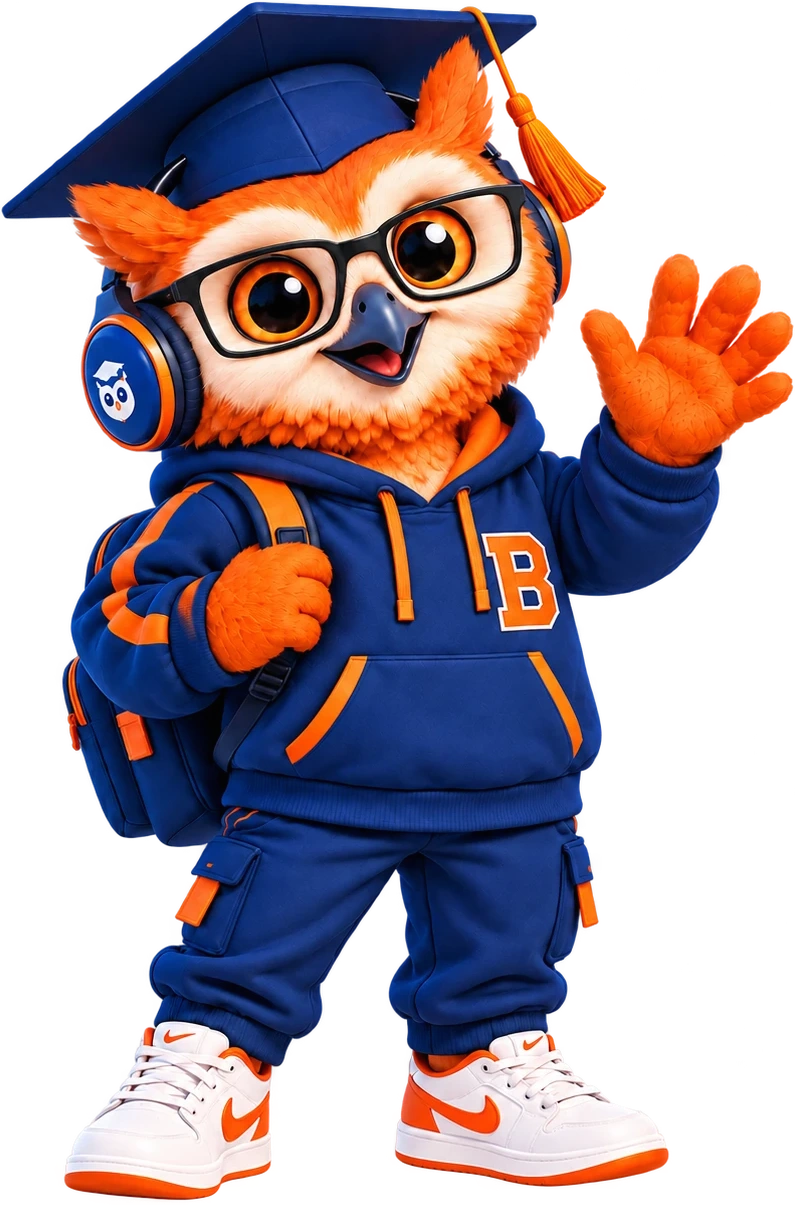
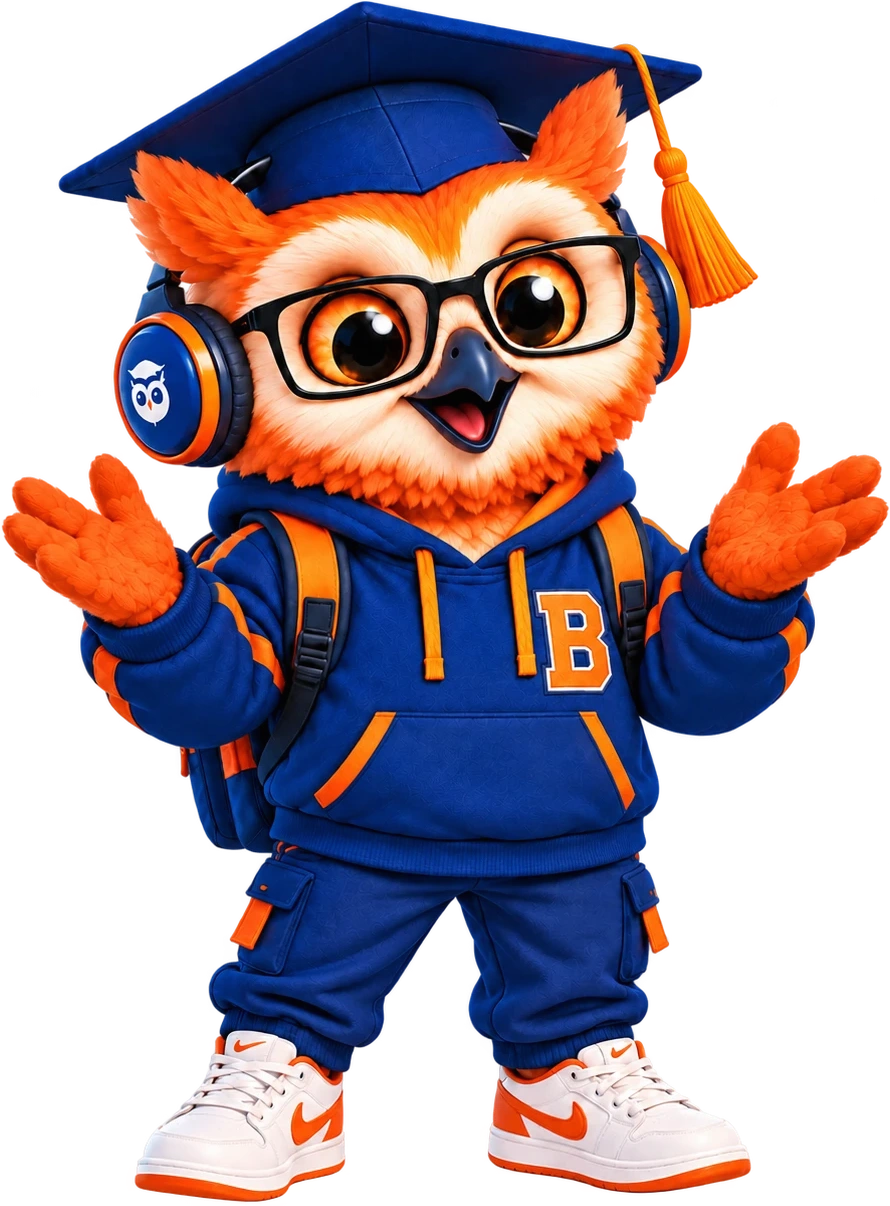
Troca a arte do "Agora é a sua vez"
Bubo de braços abertos no lugar do que acenava. Veio com transparência, então
entrou sem recorte; só as dimensões mudaram, porque a pose é mais larga.

diff --git a/src/components/quiz/story-player.tsx b/src/components/quiz/story-player.tsx
@@ -307,8 +307,8 @@ export function StoryPlayer({ story, quizHref }: { story: Story; quizHref: strin
           <Image
             src="/bubo/bubo-sua-vez.webp"
             alt=""
-            width={795}
-            height={1205}
+            width={890}
+            height={1206}
             unoptimized
             className="animate-rise-in h-72 w-auto drop-shadow-2xl sm:h-[26rem]"
           />
